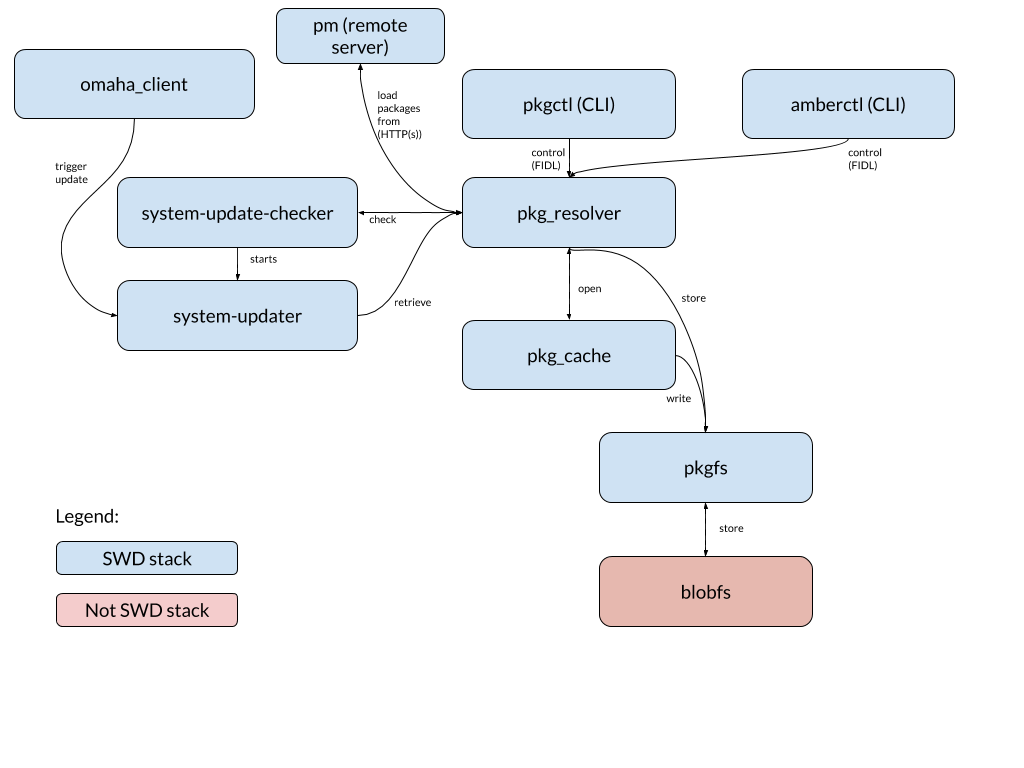
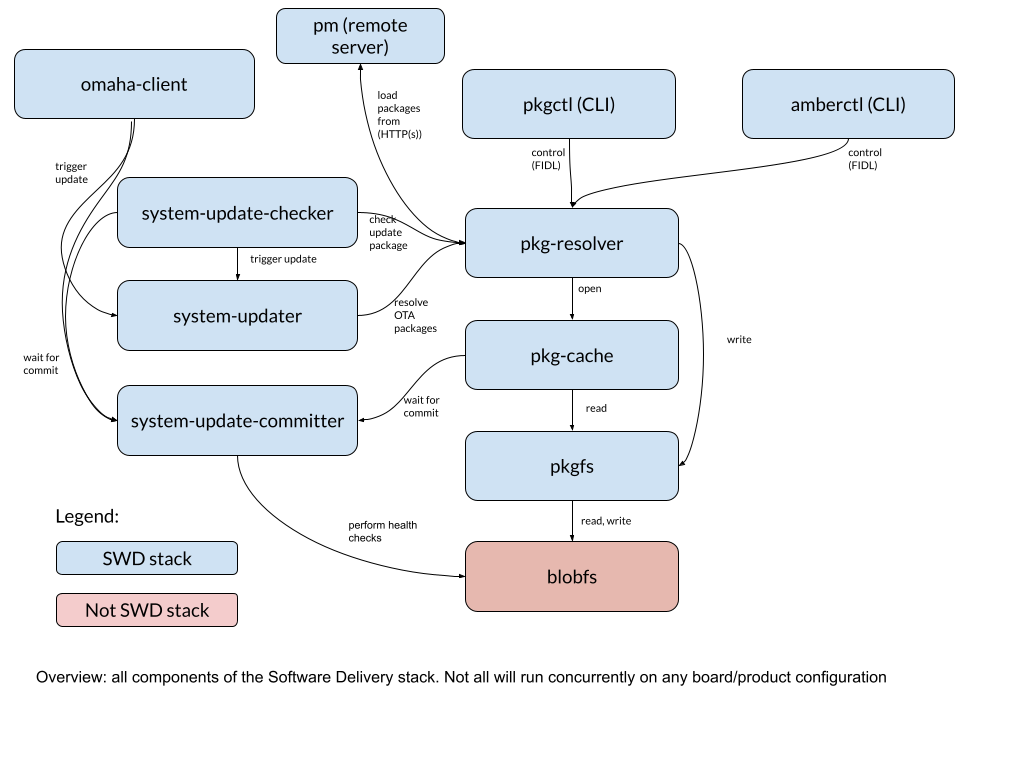
[pkg] Edit the documentation to reflect system-update-committer work is official
Fixes: 66994

Commit-Queue: Olivia Nordquist <nolivia@google.com>

diff --git a/src/sys/pkg/README.md b/src/sys/pkg/README.md
@@ -8,19 +8,20 @@
 
 ### Major Binaries
 
-Updated: September 2020
+Updated: March 2021
 
-| Subsystem             | Purpose                                                                                            | Location                                  | Language |
-|-----------------------|----------------------------------------------------------------------------------------------------|-------------------------------------------|----------|
-| amberctl              | Deprecated CLI for various components. Scheduled to be replaced by `pkgctl`.                       | `//src/sys/pkg/bin/amber/amberctl`        | Go       |
-| pkg-cache             | Caches downloaded packages in case they are needed again.                                          | `//src/sys/pkg/bin/pkg-cache`             | Rust     |
-| pkg-resolver          | Main entry point for software delivery stack. Coordinates retrieval and  installation of packages. | `//src/sys/pkg/bin/pkg-resolver`          | Rust     |
-| omaha-client          | Checks for system updates using the Omaha server infrastructure                                    | `//src/sys/pkg/bin/omaha-client`          | Rust     |
-| pkgctl                | CLI for pkg-resolver                                                                               | `//src/sys/pkg/bin/pkgctl`                | Rust     |
-| pkgfs                 | A filesystem for interacting with packages that are stored on a host.                              | `//src/sys/pkg/bin/pkgfs/pkgfs`           | Go       |
-| system-ota-test       | An end-to-end test of system over the air updates.                                                 | `//src/sys/pkg/tests/system-ota-tests`    | Go       |
-| system-update-checker | Does what it says on the tin, checks for system updates!                                           | `//src/sys/pkg/bin/system-update-checker` | Rust     |
-| system-updater        | Actually performs system updates.                                                                  | `//src/sys/pkg/bin/system-updater`        | Rust     |
+| Subsystem                 | Purpose                                                                                            | Location                                     | Language |
+|-----------------------    |----------------------------------------------------------------------------------------------------|----------------------------------------------|----------|
+| amberctl                  | Deprecated CLI for various components. Scheduled to be replaced by `pkgctl`.                       | `//src/sys/pkg/bin/amber/amberctl`           | Go       |
+| pkg-cache                 | Caches downloaded packages in case they are needed again.                                          | `//src/sys/pkg/bin/pkg-cache`                | Rust     |
+| pkg-resolver              | Main entry point for software delivery stack. Coordinates retrieval and  installation of packages. | `//src/sys/pkg/bin/pkg-resolver`             | Rust     |
+| omaha-client              | Checks for system updates using the Omaha server infrastructure                                    | `//src/sys/pkg/bin/omaha-client`             | Rust     |
+| pkgctl                    | CLI for pkg-resolver                                                                               | `//src/sys/pkg/bin/pkgctl`                   | Rust     |
+| pkgfs                     | A filesystem for interacting with packages that are stored on a host.                              | `//src/sys/pkg/bin/pkgfs/pkgfs`              | Go       |
+| system-ota-test           | An end-to-end test of system over the air updates.                                                 | `//src/sys/pkg/tests/system-ota-tests`       | Go       |
+| system-update-checker     | Does what it says on the tin, checks for system updates!                                           | `//src/sys/pkg/bin/system-update-checker`    | Rust     |
+| system-updater-committer  | Component responsible for committing the update.                                                   | `//src/sys/pkg/bin/system-update-committer`  | Rust     |
+| system-updater            | Actually performs system updates.                                                                  | `//src/sys/pkg/bin/system-updater`           | Rust     |
 
 #### Key Dependencies
 
@@ -122,6 +123,7 @@ See the instructions on
 
 ### More information:
 
+*   [OTA Flow](/docs/concepts/packages/ota.md)
 *   [Package overview](/docs/development/idk/documentation/packages.md)
 *   [Package updates](/docs/concepts/packages/package_update.md)
 *   [Package metadata](/docs/concepts/packages/package.md)

diff --git a/docs/concepts/packages/ota.md b/docs/concepts/packages/ota.md
@@ -267,15 +267,15 @@ bar/0 = new-version-hash-bar
 ```
 
 Pkgfs then loads all these packages as base packages. The packages appear in
-/pkgfs/{packages, versions}, and then we consider them “installed” or “activated”.At this point,
+/pkgfs/{packages, versions}, and then we consider them “installed” or “activated”. At this point,
 we can start appmgr, which starts the pkg-resolver, pkg-cache, netstack, etc.
 
 ### Committing the update
 At this point, we launch the system-update-committer, which is the component responsible for
 committing the update. On launch, the system-update-committer verifies the new update is good by
-running various checks. For example, it asks BlobFs to write a blob. If the system is already
-committed on boot, we skip the checks. Note: this check framework is currently being developed
-(see [fxbug.dev/54357](https://bugs.fuchsia.dev/p/fuchsia/issues/detail?id=54357) for tracking).
+running various checks. For example, it asks BlobFs to arbitrarily read 1MiB of data. If the system
+is already committed on boot, we skip the checks. Depending on how the system is [configured](https://fuchsia-review.googlesource.com/c/fuchsia/+/501423),
+the system-update-committer may trigger a reboot if the checks fail.
 
 After the update is verified, we’ll first mark the current partition (slot B) as healthy. Using the
 example from the “Staging an update” section, the boot metadata might now look like:
